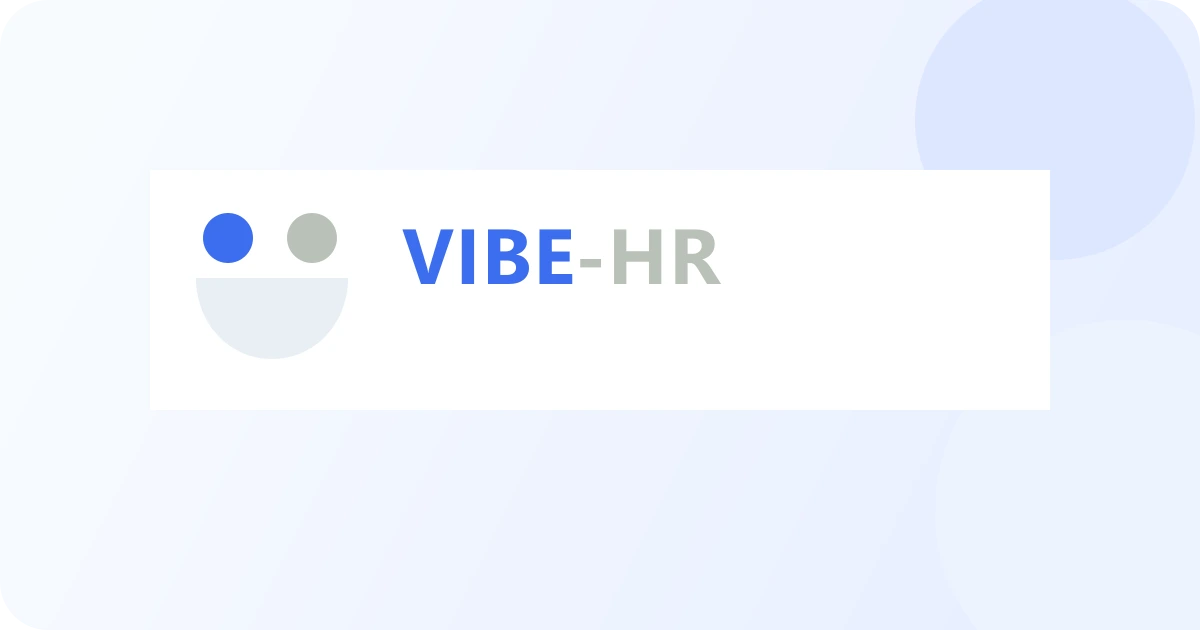
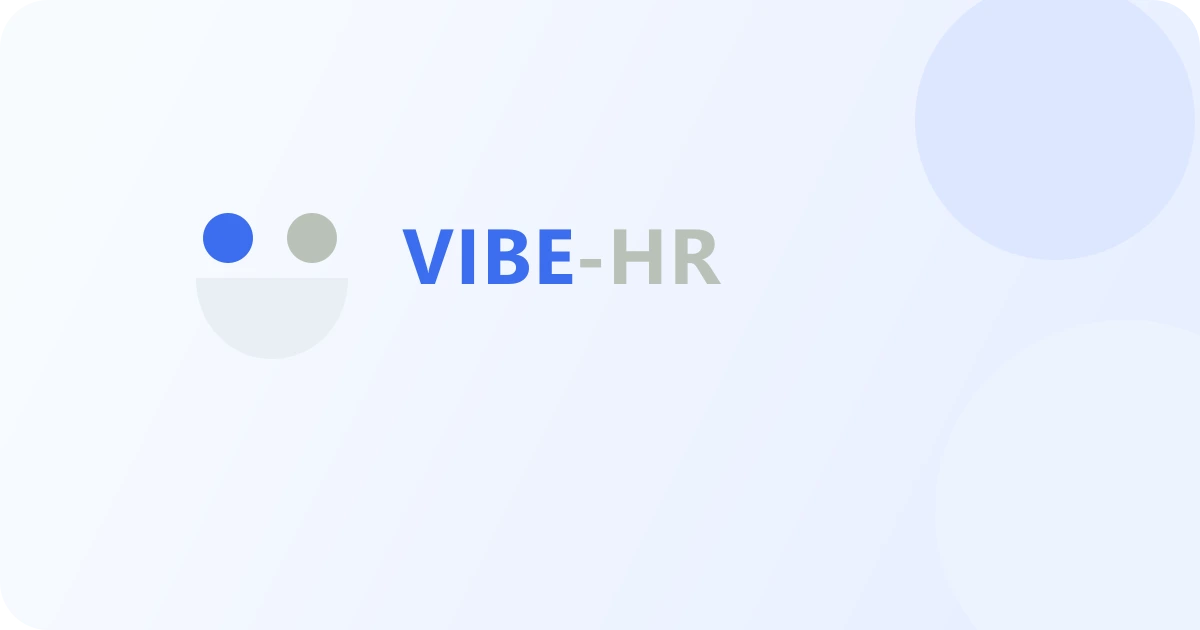
Make brand assets transparent and update header styling

Changed region(s): [[0.7708, 0.2714, 0.8942, 0.4222]]

diff --git a/frontend/src/components/layout/app-shell.tsx b/frontend/src/components/layout/app-shell.tsx
@@ -301,7 +301,7 @@ export function AppShell({ title: _title, description: _description, children }:
       <DashboardSidebar />
       <div className="flex min-w-0 flex-1 flex-col overflow-hidden">
         <header className="border-b border-border bg-card text-card-foreground">
-          <div className="grid grid-cols-3 items-center border-b border-primary/20 bg-primary px-4 py-2 text-primary-foreground lg:px-6">
+          <div className="grid grid-cols-3 items-center border-b border-border px-4 py-2 lg:px-6">
             <div className="flex items-center gap-2">
               <span className="h-8 w-8" aria-hidden="true" />
             </div>
@@ -309,7 +309,7 @@ export function AppShell({ title: _title, description: _description, children }:
             <div className="flex justify-center">
               <Link
                 href="/dashboard"
-                className="inline-flex items-center gap-2 rounded-full border border-white/35 bg-white/15 px-4 py-1.5 text-sm font-semibold text-primary-foreground transition hover:bg-white/25"
+                className="inline-flex items-center gap-2 rounded-full px-4 py-1.5 text-sm font-semibold transition hover:bg-accent"
                 aria-label="대시보드로 이동"
                 title="대시보드로 이동"
               >
@@ -320,7 +320,7 @@ export function AppShell({ title: _title, description: _description, children }:
                   height={16}
                   className="h-4 w-4"
                 />
-                <span>VIBE-HR</span>
+                <span className="text-primary">VIBE-HR</span>
               </Link>
             </div>
 
